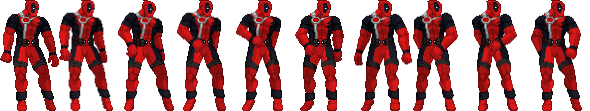
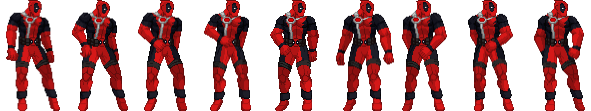
feat: animations test

diff --git a/src/js/classes.js b/src/js/classes.js
@@ -2,8 +2,8 @@
 
 // Class
 class Sprite {
-    constructor({ position, imgSrc, scale = 1, framesMax = 1}) { 
-        this.position = position 
+    constructor({ position, imgSrc, scale = 1, framesMax = 1, offset = { x: 0, y: 0 } }) {
+        this.position = position // cada vez que vc instanciar um novo jogador vc podera indicar onde ele esta na tela (canvas)
         this.width = 50
         this.height = 150
         this.image = new Image()
@@ -13,29 +13,42 @@ class Sprite {
         this.framaCurrent = 0
         this.framesChange = 0
         this.framesHold = 8 // mudar a valocidade do baby animado
+        this.offset = offset
     }
 
     draw() {
         // Para animar um elemento vc precisa dividir pelo numero de animações que tera dentro de uma imagem - vc divide a imagem pelos frames
         // c.drawImage(this.image,this.position.x, this.position.y, this.image.width * this.scale , this.image.height * this.scale) sem um elemento de animação
         // SEVENTH TASK - Background sprite
-                                // animar baby 
-        c.drawImage(this.image, this.framaCurrent * (this.image.width/this.framesMax) ,0, this.image.width/this.framesMax,this.image.height,this.position.x, this.position.y, (this.image.width/this.framesMax)* this.scale , this.image.height * this.scale)
+        // animar baby 
+        c.drawImage(
+            this.image,
+            this.framaCurrent * (this.image.width / this.framesMax),
+            0,
+            this.image.width / this.framesMax,
+            this.image.height,
+            this.position.x - this.offset.x,
+            this.position.y - this.offset.y,
+            (this.image.width / this.framesMax) * this.scale,
+            this.image.height * this.scale)
 
     }
 
-
-    update() { 
-        this.draw();
+    animetedFrames() {
         this.framesChange++
 
-        if(this.framesChange % this.framesHold === 0){
+        if (this.framesChange % this.framesHold === 0) {
             if (this.framaCurrent < this.framesMax - 1) {
                 this.framaCurrent++
-            }else{
+            } else {
                 this.framaCurrent = 0
             }
         }
+    }
+
+    update() {
+        this.draw();
+        this.animetedFrames();
 
     }
 }
@@ -44,9 +57,10 @@ class Sprite {
 
 
 // Class
-class Fighter {
-    constructor({ position, velocity, color, offset }) { // passando um objeto = com isso não importa a order
-        this.position = position // cada vez que vc instanciar um novo jogador vc podera indicar onde ele esta na tela (canvas)
+class Fighter extends Sprite {
+    constructor({ position, velocity, color, imgSrc, scale = 1, framesMax = 1, offset = { x: 0, y: 0 }, sprites }) { // passando um objeto = com isso não importa a order
+        super({ position, imgSrc, scale, framesMax, offset })
+
         this.velocity = velocity
         this.width = 50
         this.height = 150
@@ -63,21 +77,22 @@ class Fighter {
         this.color = color
         this.isAttacking
         this.health = 100// FIFTH TASK - health life!!!
-    }
+        this.framaCurrent = 0
+        this.framesChange = 0
+        this.framesHold = 9 // mudar a valocidade da animação
+        this.sprites = sprites
 
-    draw() { // colocando o jogador na tela, com a cor, e o posicionamento passado pela instância da classe (50 (largura), 150(altura))
-        c.fillStyle = this.color
-        c.fillRect(this.position.x, this.position.y, this.width, this.height)
-
-        // FOURTH TASK
-        if (this.isAttacking) {
-            c.fillStyle = '#FCFC81';
-            c.fillRect(this.attackBox.position.x, this.attackBox.position.y, this.attackBox.width, this.attackBox.height);
+        // Mudar as animações do jogador
+        for (const sprite in this.sprites) {
+            sprites[sprite].image = new Image()
+            sprites[sprite].image.src = sprites[sprite].imgSrc
+            console.log(sprites[sprite]);
         }
     }
 
     // FOURTH TASK - Attacks!!! - ativa o ataque por um periodo de tempo
     attacks() {
+        player.switchSprite('attack1')
         this.isAttacking = true
         setTimeout(() => {
             this.isAttacking = false
@@ -86,6 +101,9 @@ class Fighter {
 
     update() { // gravidade, velocidade, "fisica do jogo"
         this.draw();
+        this.animetedFrames();
+
+
         this.attackBox.position.x = this.position.x + this.attackBox.offset.x
         this.attackBox.position.y = this.position.y
 
@@ -95,8 +113,70 @@ class Fighter {
         // Não deixar que o player passe a tela     
         if (this.position.y + this.height + this.velocity.y >= canvas.height - 10) { // o - 10 é para ajustar onde os jogadores vão vair no chão de acordo com o background
             this.velocity.y = 0
+            this.position.y = 407 //modificar quando chegar no chão e bug a animação na hora de trocar
         } else {
             this.velocity.y += gravity // o jogador sempre vai cair no Y, por conta da gravidade. Vc não precisa colocar nada na instancia dele
         }
     }
+
+    // mudar animações
+    switchSprite(sprite) {
+        // Não chamar o swich, no ataque, se não bug com a animação idle
+        if (player.image === this.sprites.attack1.image && this.framaCurrent < this.sprites.attack1.framesMax -1) { //mover uma vez o ataque
+            return
+        }
+        switch (sprite) {
+            case 'idle':
+                if (this.image !== this.sprites.idle.image) {
+                    this.image = this.sprites.idle.image
+                    this.framesMax = this.sprites.idle.framesMax  //sobreescreve os frames
+                    this.framaCurrent = 0
+                }
+                break;
+            case 'run':
+                if (this.image !== this.sprites.run.image) {
+                    this.image = this.sprites.run.image
+                    this.framesMax = this.sprites.run.framesMax  //sobreescreve os frames
+                    this.framaCurrent = 0
+                }
+                break;
+            case 'jump':
+                if (this.image !== this.sprites.jump.image) {
+                    this.image = this.sprites.jump.image
+                    this.framesMax = this.sprites.jump.framesMax  //sobreescreve os frames
+                    this.framaCurrent = 0
+                }
+                break;
+            case 'fall':
+                if (this.image !== this.sprites.fall.image) {
+                    this.image = this.sprites.fall.image
+                    this.framesMax = this.sprites.fall.framesMax  //sobreescreve os frames
+                    this.framaCurrent = 0
+                }
+                break;
+            case 'attack1':
+                if (this.image !== this.sprites.attack1.image) {
+                    this.image = this.sprites.attack1.image
+                    this.framesMax = this.sprites.attack1.framesMax  //sobreescreve os frames
+                    this.framaCurrent = 0
+                }
+                break;
+
+
+            default:
+                break;
+        }
+    }
 }
+
+// Retangulos!!
+// draw() { // colocando o jogador na tela, com a cor, e o posicionamento passado pela instância da classe (50 (largura), 150(altura))
+//     c.fillStyle = this.color
+//     c.fillRect(this.position.x, this.position.y, this.width, this.height)
+
+//     // FOURTH TASK
+//     if (this.isAttacking) {
+//         c.fillStyle = '#FCFC81';
+//         c.fillRect(this.attackBox.position.x, this.attackBox.position.y, this.attackBox.width, this.attackBox.height);
+//     }
+// }

diff --git a/src/js/game.js b/src/js/game.js
@@ -52,6 +52,35 @@ const player = new Fighter({
     offset: {
         x: 0,
         y: 0
+    },
+    imgSrc: '../imagens/game/samuraiMack/idle.png',
+    framesMax: 8,
+    scale: 2.5,
+    offset: {
+        x: 215,
+        y: 157
+    },
+    sprites: {
+        idle: {
+            imgSrc: '../imagens/game/samuraiMack/idle.png',
+            framesMax: 8
+        },
+        run: {
+            imgSrc: '../imagens/game/samuraiMack/run.png',
+            framesMax: 8
+        },
+        jump:{
+            imgSrc: '../imagens/game/samuraiMack/jump.png',
+            framesMax: 2
+        },
+        fall:{
+            imgSrc: '../imagens/game/samuraiMack/fall.png',
+            framesMax: 2
+        },
+        attack1:{
+            imgSrc: '../imagens/game/samuraiMack/attack1.png',
+            framesMax: 6
+        }
     }
 });
 
@@ -106,16 +135,30 @@ function animate() {
     background.update();
     baby.update();
     player.update();
-    enemy.update();
+    // enemy.update();
 
     // THIRD TASK - mover para direita e esquerda - com isso vc pode mover duas teclas ao mesmo tempo 
     // Player
     player.velocity.x = 0 // não fica sempre se mexendo
+    
+    // mudar a animação
     if (keys.a.pressed && player.lastKey === 'a') {
         player.velocity.x = -5 // velocidade dos jogadores
+        player.switchSprite('run')
     } else if (keys.d.pressed && player.lastKey === 'd') {
         player.velocity.x = 5 // velocidade dos jogadores
+        player.switchSprite('run')
+    }else{
+        player.switchSprite('idle')
     }
+
+    // JUMP
+    if (player.velocity.y < 0) {
+        player.switchSprite('jump')
+    } else if (player.velocity.y > 0) { //caindo
+        player.switchSprite('fall')
+    }
+
 
     // Enemy
     enemy.velocity.x = 0
